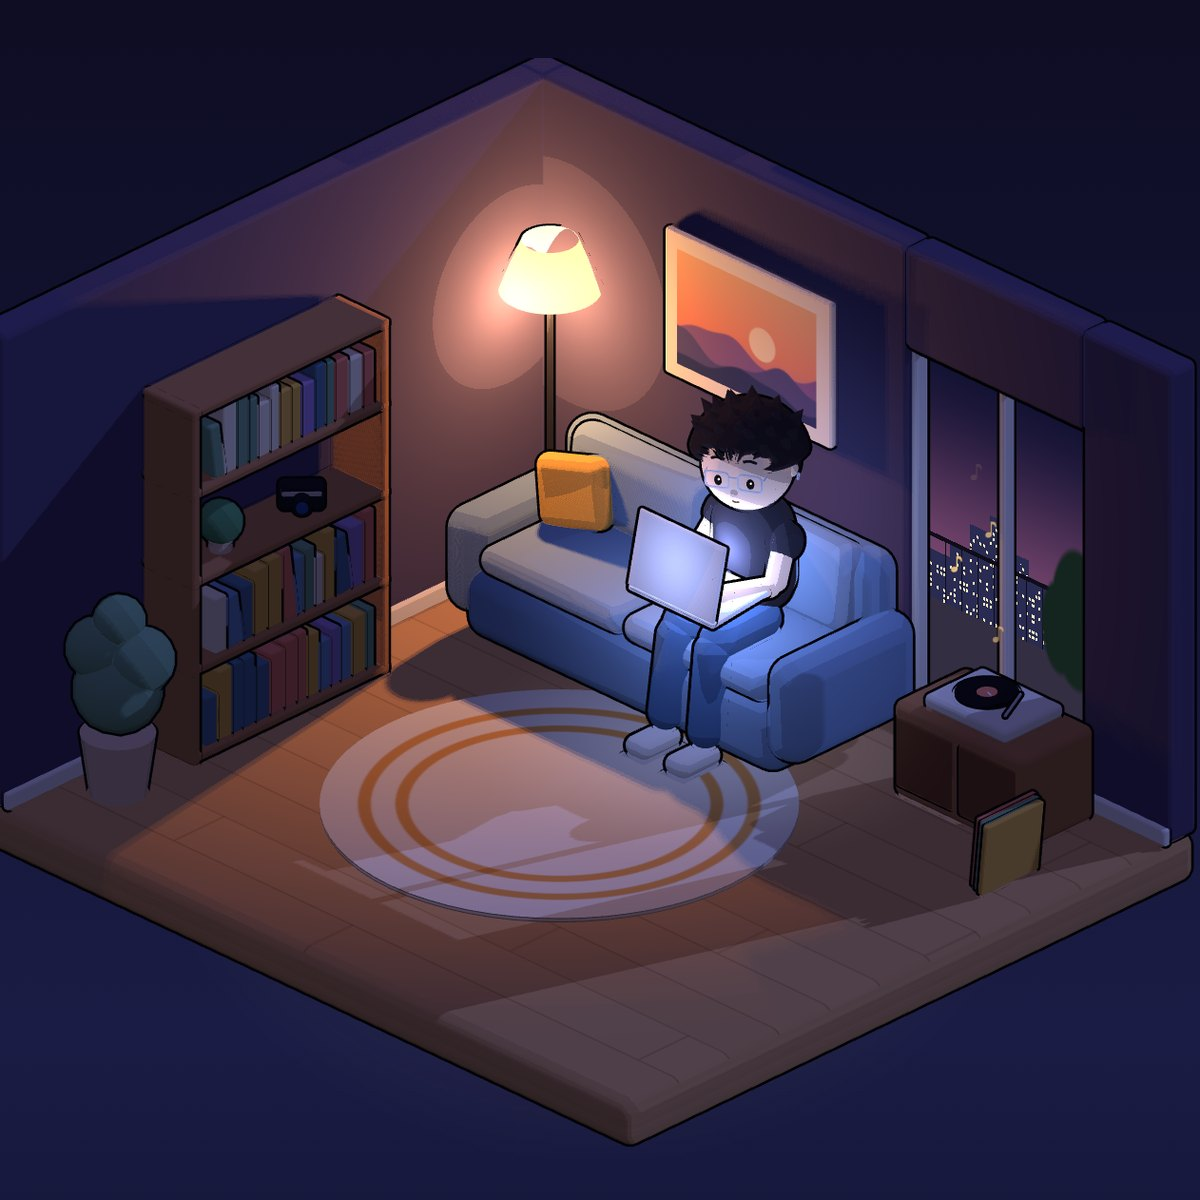
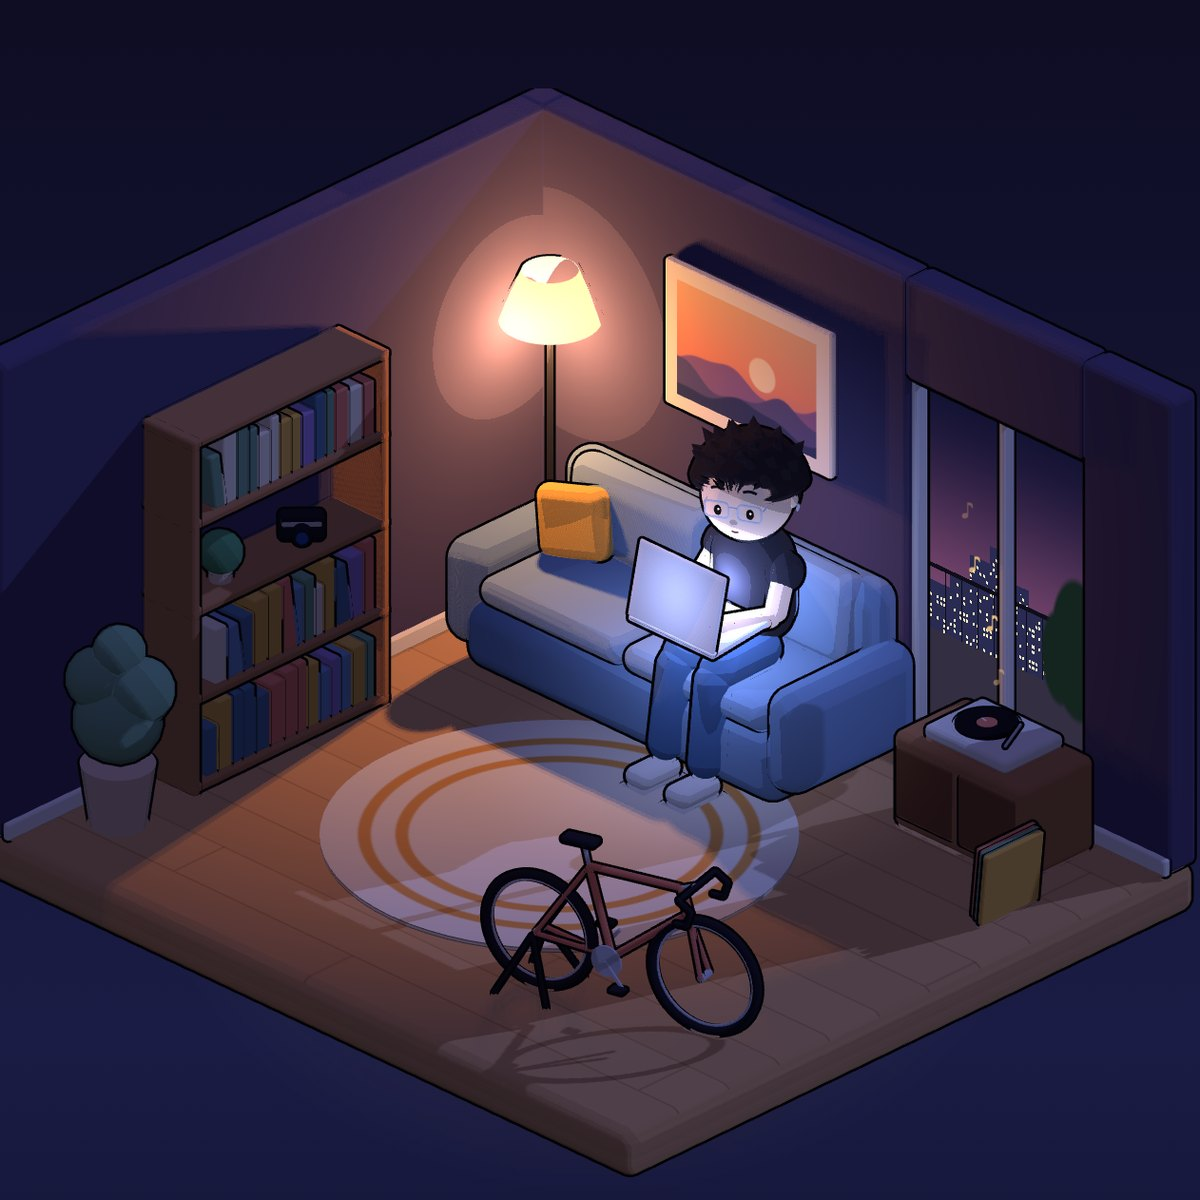
A road bike in the open corner; a landscape share card; the 404 in the site's own type
The share card is 1200x628 (1.91:1), the shape LinkedIn and X crop link
previews to; the square room.jpg stays as the no-WebGL fallback. three is
module-preloaded so it no longer waits on scene.js to be parsed.

Claude-Session: https://claude.ai/code/session_01FH67SwyQXea5kehW28VuDA

Changed region(s): [[0.0, 0.0308, 1.0, 0.9867], [0.74, 0.2775, 0.8942, 0.37], [0.6783, 0.7708, 0.7092, 0.8017]]

diff --git a/public/scene.js b/public/scene.js
@@ -1,6 +1,6 @@
 // Ivan's room in golden hour, a cel-shaded diorama built from primitives: sun
 // through the balcony door, a turntable going, a bookshelf with a camera, a
-// print above the sofa. Night swaps the sun for the lamp, the laptop and the city.
+// print above the sofa, his road bike. Night swaps the sun for the lamp, the laptop and the city.
 import * as THREE from "three";
 import { RoundedBoxGeometry } from "three/addons/geometries/RoundedBoxGeometry.js";
 
@@ -399,9 +399,49 @@ function build(renderer) {
   lamp.shadow.radius = 6;
   room.add(lamp);
 
-  // A plant in the corner by the door, and dust turning in the sunlight.
+  // A plant in the front corner, and dust turning in the sunlight.
   put(cyl(0.2, 0.15, 0.36), clay(C.pot), [-1.9, 0.18, 1.55]);
   for (const [x, y, z, s] of [[-1.9, 0.62, 1.55, 0.24], [-2.0, 0.84, 1.6, 0.17], [-1.8, 0.8, 1.48, 0.18], [-1.92, 1.0, 1.52, 0.14]]) put(new THREE.IcosahedronGeometry(s, 2), clay(C.sage), [x, y, z]);
+
+  // His road bike in the open corner, a steel paint with drop bars, its back axle held by a stand
+  // since a road bike has no kickstand. The bike is drawn along local x, front wheel forward.
+  const bike = new THREE.Group();
+  bike.position.set(1.4, 0, 1.15);
+  bike.rotation.y = 0.25;
+  room.add(bike);
+  const WHEEL = 0.34, black = clay(C.ink), paint = clay(C.coral);
+  const rear = [-0.5, WHEEL, 0], front = [0.5, WHEEL, 0], bb = [-0.06, 0.3, 0], seat = [-0.2, 0.8, 0];
+  const headTop = [0.36, 0.82, 0], headLow = [0.4, 0.68, 0];
+  for (const hub of [rear, front]) {
+    put(new THREE.TorusGeometry(WHEEL - 0.024, 0.024, 10, 56), black, hub, bike);
+    put(new THREE.TorusGeometry(WHEEL - 0.055, 0.008, 6, 56), rimMat, hub, bike, { cast: false });
+    put(cyl(0.022, 0.022, 0.09, 12), rimMat, hub, bike, { cast: false }).rotation.x = Math.PI / 2;
+  }
+  for (const [a, b] of [[bb, seat], [seat, headTop], [bb, headLow]]) limb(a, b, 0.019, paint, bike);
+  limb(headLow, headTop, 0.024, paint, bike);
+  for (const s of [-1, 1]) {
+    const axle = [rear[0], rear[1], s * 0.045];
+    limb(bb, axle, 0.013, paint, bike);
+    limb(seat, axle, 0.012, paint, bike);
+    limb(headLow, [front[0], front[1], s * 0.045], 0.013, paint, bike);
+    for (const dx of [-0.16, 0.16]) limb([rear[0], rear[1], s * 0.07], [rear[0] + dx, 0.01, s * 0.2], 0.01, black, bike);
+  }
+  limb(seat, [-0.23, 0.92, 0], 0.012, rimMat, bike);
+  put(box(0.2, 0.035, 0.085, 0.015), black, [-0.25, 0.94, 0], bike).rotation.z = 0.05;
+  limb(headTop, [0.45, 0.86, 0], 0.013, rimMat, bike);
+  limb([0.45, 0.86, -0.19], [0.45, 0.86, 0.19], 0.012, black, bike);
+  for (const s of [-1, 1]) {
+    const z = s * 0.19;
+    limb([0.45, 0.86, z], [0.53, 0.81, z], 0.012, black, bike);
+    limb([0.53, 0.81, z], [0.5, 0.72, z], 0.012, black, bike);
+    limb([0.5, 0.72, z], [0.43, 0.72, z], 0.012, black, bike);
+  }
+  put(cyl(0.09, 0.09, 0.012, 32), rimMat, [bb[0], bb[1], 0.06], bike, { cast: false }).rotation.x = Math.PI / 2;
+  for (const s of [-1, 1]) {
+    const crank = put(box(0.022, 0.17, 0.016, 0.006), rimMat, [bb[0] + s * 0.05, bb[1] - s * 0.06, s * 0.075], bike, { cast: false });
+    crank.rotation.z = s * 0.7;
+    put(box(0.08, 0.018, 0.06, 0.006), black, [bb[0] + s * 0.1, bb[1] - s * 0.12, s * 0.11], bike);
+  }
   const motes = new Float32Array(60 * 3);
   for (let i = 0; i < motes.length; i += 3) {
     motes[i] = 0.4 + rand() * 1.6;

diff --git a/public/404.html b/public/404.html
@@ -5,41 +5,51 @@
 <meta name="viewport" content="width=device-width, initial-scale=1">
 <title>Not found · Ivan</title>
 <meta name="color-scheme" content="light dark">
+<link rel="icon" href="https://avatars.githubusercontent.com/u/39482599?v=4&s=64">
+<link rel="preconnect" href="https://fonts.googleapis.com">
+<link rel="preconnect" href="https://fonts.gstatic.com" crossorigin>
+<link rel="stylesheet" href="https://fonts.googleapis.com/css2?family=Bricolage+Grotesque:opsz,wght@12..96,800&family=Geist:wght@400&display=swap">
 <style>
-  @font-face {
-    font-family: "Fusion Pixel 8px";
-    src: url("/fonts/fusion-pixel-8px.woff2") format("woff2");
-    font-display: swap;
-  }
-  :root { --bg: #eef1f8; --text: #1f2335; --muted: #4a5072; --link: #2b52c4; }
+  /* The home page's palette, so a wrong link still lands in the same room. */
+  :root { --sky-top: #e9e6fb; --sky-low: #f6f4fb; --text: #17162b; --muted: #4a4866; --accent: #5b3fd1; }
   @media (prefers-color-scheme: dark) {
-    :root { --bg: #1a1b26; --text: #c0caf5; --muted: #9aa5ce; --link: #7aa2f7; }
+    :root { --sky-top: #0d0b20; --sky-low: #1a1c45; --text: #f3f0ea; --muted: #b9b6cf; --accent: #ffcf8a; }
   }
   body {
     margin: 0;
     min-height: 100vh;
     display: grid;
     place-items: center;
-    background: var(--bg);
+    padding: 1.5rem;
+    box-sizing: border-box;
     color: var(--text);
-    font: 18px/1.6 ui-sans-serif, system-ui, -apple-system, "Segoe UI", Roboto, "Helvetica Neue", sans-serif;
-    padding: 1rem;
+    background: linear-gradient(180deg, var(--sky-top), var(--sky-low)) fixed;
+    font: 18px/1.6 Geist, ui-sans-serif, system-ui, -apple-system, "Segoe UI", sans-serif;
   }
   h1 {
-    font: 400 24px/32px "Fusion Pixel 8px", ui-monospace, monospace;
-    -webkit-font-smoothing: none;
-    margin: 0 0 .5rem;
+    font-family: "Bricolage Grotesque", ui-sans-serif, system-ui, sans-serif;
+    font-variation-settings: "opsz" 96;
+    font-weight: 800;
+    font-size: clamp(2.5rem, 8vw, 4.5rem);
+    line-height: .95;
+    letter-spacing: -.02em;
+    margin: 0 0 1rem;
   }
   p { margin: 0; color: var(--muted); }
-  a { color: var(--link); text-decoration-thickness: 2px; text-underline-offset: 4px; }
-  a:hover { background: var(--link); color: var(--bg); text-decoration: none; }
-  a:focus-visible { outline: 2px solid var(--link); outline-offset: 3px; }
+  a {
+    color: var(--text);
+    text-decoration-color: var(--accent);
+    text-decoration-thickness: 2px;
+    text-underline-offset: 5px;
+  }
+  a:hover { color: var(--accent); }
+  a:focus-visible { outline: 2px solid var(--accent); outline-offset: 4px; border-radius: 2px; }
 </style>
 </head>
 <body>
 <main>
-  <h1>Nothing at this desk</h1>
-  <p>This page doesn’t exist. <a href="/">Go to ivanwng97.com</a></p>
+  <h1>Nothing in this room</h1>
+  <p>This page doesn’t exist. <a href="/">Back to ivanwng97.com</a></p>
 </main>
 </body>
 </html>

diff --git a/public/index.html b/public/index.html
@@ -8,7 +8,11 @@
 <meta property="og:title" content="Ivan">
 <meta property="og:description" content="Mobile dev. Building small things in my spare time.">
 <meta property="og:url" content="https://ivanwng97.com/">
-<meta property="og:image" content="https://ivanwng97.com/room.jpg">
+<meta property="og:image" content="https://ivanwng97.com/og.jpg">
+<meta property="og:image:width" content="1200">
+<meta property="og:image:height" content="628">
+<meta property="og:image:alt" content="Ivan's cartoon room at night: him on the sofa with a laptop, a bookshelf, a turntable and a road bike.">
+<meta name="twitter:card" content="summary_large_image">
 <meta name="color-scheme" content="light dark">
 <meta name="theme-color" content="#f2f0fa" media="(prefers-color-scheme: light)">
 <meta name="theme-color" content="#110f26" media="(prefers-color-scheme: dark)">
@@ -17,6 +21,8 @@
 <link rel="preconnect" href="https://fonts.googleapis.com">
 <link rel="preconnect" href="https://fonts.gstatic.com" crossorigin>
 <link rel="stylesheet" href="https://fonts.googleapis.com/css2?family=Bricolage+Grotesque:opsz,wght@12..96,500..800&family=Geist:wght@400;500&display=swap">
+<link rel="modulepreload" href="https://cdn.jsdelivr.net/npm/three@0.170.0/build/three.module.min.js" crossorigin>
+<link rel="modulepreload" href="/scene.js">
 <style>
   /* Dusk outside an office window; by day, the same room in morning light. */
   :root {
@@ -59,7 +65,7 @@
     gap: 2rem;
     max-width: 76rem;
     margin: 0 auto;
-    padding: 4rem 1.5rem 2rem;
+    padding: 4rem 1.5rem 0;
   }
   .intro { position: relative; z-index: 1; }
   h1 {
@@ -118,7 +124,7 @@
     grid-template-columns: minmax(0, 1fr) minmax(0, 1.25fr);
     gap: 2rem;
   }
-  .projects { grid-column: 1 / -1; margin-top: 2rem; }
+  .projects { grid-column: 1 / -1; }
   .cards {
     list-style: none; margin: 0; padding: 0;
     display: grid; gap: 1.25rem;
@@ -188,7 +194,7 @@
   </div>
   <div class="stage">
     <canvas id="scene" aria-hidden="true"></canvas>
-    <img class="fallback" src="/room.jpg" width="1200" height="1200" alt="A cartoon of Ivan on a sofa with his laptop: a floor lamp, a bookshelf with a camera, a turntable playing by the balcony door, and a sunset print on the wall.">
+    <img class="fallback" src="/room.jpg" width="1200" height="1200" alt="A cartoon of Ivan on a sofa with his laptop: a floor lamp, a bookshelf with a camera, a turntable playing by the balcony door, a sunset print on the wall, and his road bike on a stand.">
     <noscript><style>#scene { display: none; } .fallback { display: block; }</style></noscript>
   </div>
 </header>
